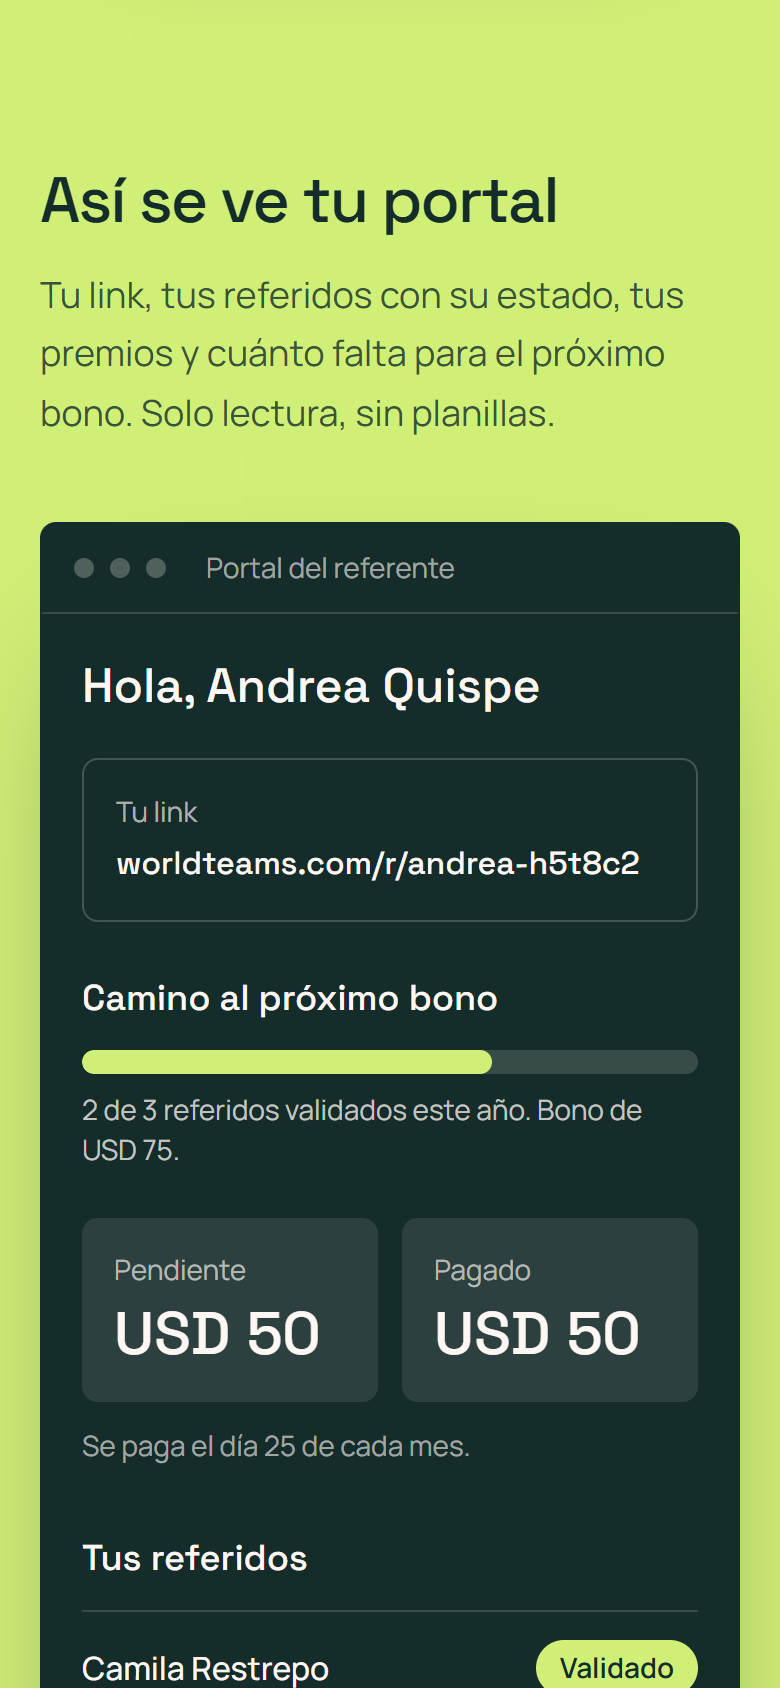
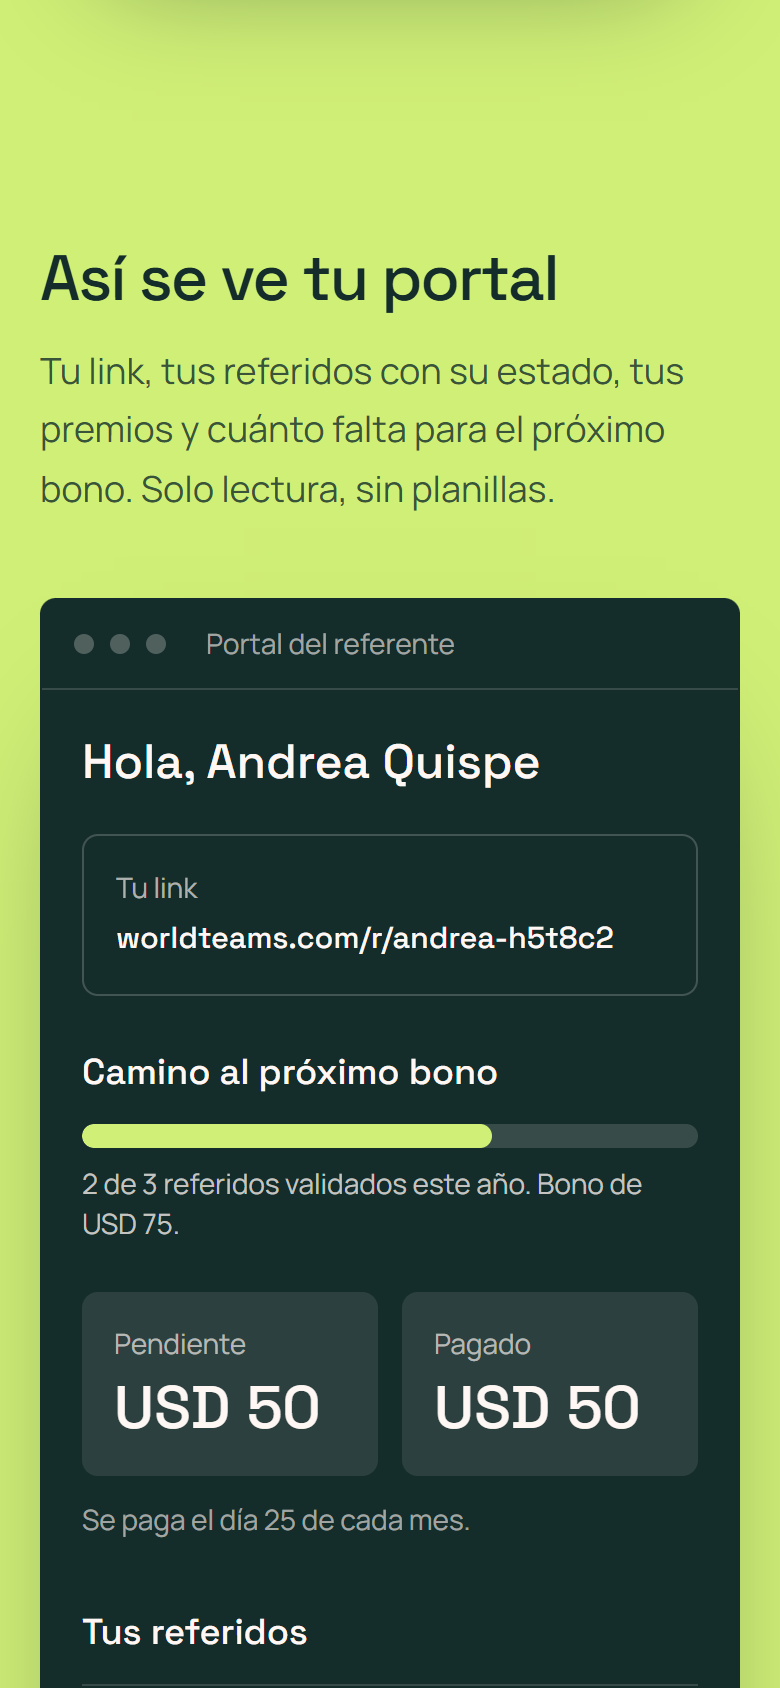
Marquesina fiel a la web; hero sin hueco en móvil (alto sigue al fragmento visible); link del celular cortado tras /r/; landing marcada como terminada

Changed region(s): [[0.0308, 0.0924, 0.9538, 0.8626], [0.0923, 0.8934, 0.5846, 1.0], [0.6769, 0.955, 0.8923, 1.0]]

diff --git a/app/components/inicio/HeroFragmentos.tsx b/app/components/inicio/HeroFragmentos.tsx
@@ -7,9 +7,11 @@ import { cargarGsap, prefiereMovimientoReducido } from "@/lib/gsap";
 const fragmentos = es.inicio.hero.fragmentos;
 
 /**
- * Titular con el último fragmento rotando. Todos los fragmentos ocupan la misma celda de una grilla,
- * así el alto es el del más largo y nada salta. Cada cambio usa una máscara de entrada por línea.
- * Sin JS o con movimiento reducido queda visible el primero; el texto completo va en el h1 accesible.
+ * Titular con el último fragmento rotando, con máscara de entrada por línea.
+ * Solo el primer fragmento ocupa lugar; los demás esperan fuera de flujo, así que el alto es siempre el
+ * del fragmento visible (sin hueco aunque otro sea más largo y se parta en dos líneas en móvil).
+ * Al rotar, el alto se anima hasta el del fragmento que entra. Sin JS o con movimiento reducido queda
+ * visible solo el primero; el texto completo va en el h1 accesible.
  */
 export function HeroFragmentos() {
   const raiz = useRef<HTMLSpanElement>(null);
@@ -24,15 +26,29 @@ export function HeroFragmentos() {
       if (cancelado) return;
       let llamada: ReturnType<typeof gsap.delayedCall> | undefined;
       const items = gsap.utils.toArray<HTMLElement>("[data-fragmento]", el);
+      // Alto del contenedor = alto del fragmento + el aire inferior que evita recortar descendentes.
+      const aire = el.offsetHeight - items[0].offsetHeight;
+      const altoDe = (i: number) => items[i].offsetHeight + aire;
+      let actual = 0;
+      let animando = false;
+
+      // Si cambia el ancho y un fragmento se parte distinto, el alto sigue al visible.
+      const observador = new ResizeObserver(() => {
+        if (!animando && el.style.height) el.style.height = `${altoDe(actual)}px`;
+      });
+      items.forEach((i) => observador.observe(i));
+
       const ctx = gsap.context(() => {
-        gsap.set(items.slice(1), { yPercent: 110 });
-        let actual = 0;
+        gsap.set(items.slice(1), { yPercent: 110, visibility: "visible" });
         const rotar = () => {
           const siguiente = (actual + 1) % items.length;
+          el.style.height = `${altoDe(actual)}px`;
+          animando = true;
           gsap
-            .timeline()
+            .timeline({ onComplete: () => (animando = false) })
             .to(items[actual], { yPercent: -110, duration: 0.7, ease: "power3.in" })
-            .fromTo(items[siguiente], { yPercent: 110 }, { yPercent: 0, duration: 0.8, ease: "power3.out" }, "-=0.1");
+            .fromTo(items[siguiente], { yPercent: 110 }, { yPercent: 0, duration: 0.8, ease: "power3.out" }, "-=0.1")
+            .to(el, { height: altoDe(siguiente), duration: 0.6, ease: "power3.inOut" }, "<");
           actual = siguiente;
         };
         const programar = (segundos: number) => {
@@ -45,7 +61,9 @@ export function HeroFragmentos() {
       }, el);
       limpiar = () => {
         llamada?.kill();
+        observador.disconnect();
         ctx.revert();
+        el.style.height = "";
       };
     });
     return () => {
@@ -55,9 +73,13 @@ export function HeroFragmentos() {
   }, []);
 
   return (
-    <span ref={raiz} aria-hidden className="grid overflow-hidden pb-[0.12em] text-acento">
-      {fragmentos.map((f) => (
-        <span key={f} data-fragmento className="[grid-area:1/1] will-change-transform">
+    <span ref={raiz} aria-hidden className="relative block overflow-hidden pb-[0.12em] text-acento">
+      {fragmentos.map((f, i) => (
+        <span
+          key={f}
+          data-fragmento
+          className={`block will-change-transform ${i > 0 ? "invisible absolute inset-x-0 top-0 motion-reduce:hidden" : ""}`}
+        >
           {f}
         </span>
       ))}

diff --git a/app/components/inicio/Celular.tsx b/app/components/inicio/Celular.tsx
@@ -5,6 +5,8 @@ import { t } from "@/lib/i18n";
 
 const c = es.inicio.como.celular;
 const hito = config.hitos[0];
+const corte = c.linkValor.indexOf("/r/") + 3;
+const [host, codigo] = [c.linkValor.slice(0, corte), c.linkValor.slice(corte)];
 
 /** Marco de celular, solo decorativo: el sentido de cada pantalla lo da el texto del paso. */
 export function Celular({ children }: { children: ReactNode }) {
@@ -26,8 +28,11 @@ export function PantallaLink() {
     <div data-pantalla="link" className={pantalla}>
       <p className="font-display text-lg font-medium">{c.linkTitulo}</p>
       <div className="mt-4 rounded-lg border-[1.5px] border-borde/50 bg-white p-3">
-        {/* El espacio de ancho cero tras "/r/" deja cortar la línea ahí y no en mitad de la palabra. */}
-        <p className="font-display text-[0.95rem] font-medium leading-snug">{c.linkValor.replace("/r/", "/r/")}</p>
+        {/* El link va en dos líneas fijas, cortado justo después de "/r/": nunca a mitad de palabra. */}
+        <p className="font-display text-[0.95rem] font-medium leading-snug">
+          <span className="block whitespace-nowrap">{host}</span>
+          <span className="block whitespace-nowrap">{codigo}</span>
+        </p>
       </div>
       <div className="relative mt-3 h-10">
         <span data-copiar className="absolute inset-0 flex items-center justify-center rounded-lg bg-verde text-sm font-bold text-crema">

diff --git a/app/components/inicio/PortalEjemplo.tsx b/app/components/inicio/PortalEjemplo.tsx
@@ -60,7 +60,7 @@ export function PortalEjemplo() {
             <p className="font-display text-2xl font-medium sm:text-3xl">{p.saludo}</p>
             <div className="mt-5 rounded-lg border border-crema/20 p-4">
               <p className="text-sm text-crema/65">{p.linkEtiqueta}</p>
-              <p className="mt-1 font-display text-base font-medium [overflow-wrap:anywhere] sm:text-lg">{p.linkValor}</p>
+              <p className="mt-1 whitespace-nowrap font-display text-[0.95rem] font-medium sm:text-lg">{p.linkValor}</p>
             </div>
 
             <div className="mt-6">

diff --git a/PLAN.md b/PLAN.md
@@ -8,7 +8,7 @@ Regla: no se pasa a la tarea siguiente hasta que la anterior funcione y esté pr
 - [ ] Crear cuenta en Resend (dominio de prueba) y en n8n (recomendado: n8n Cloud en prueba, para tener webhooks públicos sin túnel).
 
 ## Jueves 22/10 (construcción)
-1. [x] **Landing (modo demo, decisiones 27–29)** — _`/r/[codigo]` terminada y probada en demo (21/10): registro nuevo, `ya.registrado@example.com`, `falla@example.com`, código inexistente, teclado en los controles segmentados y 390 px sin franjas. `/` construida en demo (hero, 3 pasos, premios, calculadora, FAQ y cierre; montos desde `config`). Pasada de diseño (22/10, decisiones 30–32): hilo que conecta, scrollytelling con celular, fondo interpolado, marquesina, tarjetas de premios, maqueta del portal, Lighthouse local 94 móvil / 100 escritorio. Pendiente: conexión real con Supabase y n8n (`/api/referir` → webhook), que depende de las tareas 2 y 3._ Primero `/r/[codigo]` con formulario funcionando en demo, después `/` (hero, 3 pasos, premios, calculadora, FAQ, cierre). `/r/[codigo]`: valida el código, muestra quién recomienda, formulario de la decisión 21, reCAPTCHA, subida de CV, aviso de visibilidad, envío al webhook de n8n, pantalla de confirmación (decisión 23) y mensaje neutro para registrados previos. Textos en `i18n/es.json`. Diseño acorde a WorldTeams (verde oscuro, verde lima), sin copiar su página. Luego se conecta a Supabase (lectura de `configuracion` y referentes) y a n8n (`/api/referir` → webhook).
+1. [x] **Landing (modo demo, decisiones 27–29)** — _TERMINADA (22/10): `/r/[codigo]` y `/` construidas y probadas en demo, con la pasada de diseño de las decisiones 30–32, código de referido no adivinable con límite de intentos (decisión 2), Lighthouse local 94+ móvil / 100 escritorio y sin desborde a 390 px. Lo que falta de esta tarea es conectar la lectura de `configuracion` y `referentes` a Supabase y `/api/referir` al webhook de n8n; eso se hace dentro de las tareas 2 y 3._ Primero `/r/[codigo]` con formulario funcionando en demo, después `/` (hero, 3 pasos, premios, calculadora, FAQ, cierre). `/r/[codigo]`: valida el código, muestra quién recomienda, formulario de la decisión 21, reCAPTCHA, subida de CV, aviso de visibilidad, envío al webhook de n8n, pantalla de confirmación (decisión 23) y mensaje neutro para registrados previos. Textos en `i18n/es.json`. Diseño acorde a WorldTeams (verde oscuro, verde lima), sin copiar su página. Luego se conecta a Supabase (lectura de `configuracion` y referentes) y a n8n (`/api/referir` → webhook).
 2. [ ] **Base de datos** — `supabase/schema.sql` según `DECISIONS.md`: tablas, restricciones, índice único parcial, columna generada `es_prioritario`, vistas, RLS, bucket privado de CVs. `seed.sql`: configuración inicial, 3–4 referentes de ejemplo, 1 persona de reclutamiento. `tests.sql`: probar que un email duplicado falla, que un segundo movimiento del mismo concepto falla y que el referente solo ve lo suyo.
 3. [ ] **Flujo principal n8n** — webhook de registro → referente válido y colocado → normalizar email/LinkedIn → ¿ya en pool? / ¿duplicado? / ¿autorreferido? → `descartado` + mail · si no: crear candidato y referido `registrado` → reglas de validación + alerta de volumen → `validado` (crear movimientos con montos de `configuracion` + bono de hito si corresponde + mail) o `en_revision` (motivos). Historial en cada cambio. Exportar JSON.
 4. [ ] **Portal del referente** — magic link (solo emails de `referentes`), link copiable, lista de referidos (nombre + estado), premios pendientes/pagados, barra de avance desde `v_progreso_referente`.

diff --git a/DECISIONS.md b/DECISIONS.md
@@ -90,7 +90,7 @@ Punto de equilibrio: el programa se paga solo si al menos X% de los referidos te
 
 **31. Movimiento reducido** — con `prefers-reduced-motion` no se carga Lenis ni GSAP: no hay fondo interpolado, ni marquesina, ni números que ruedan, ni sección fija. El contenido es el mismo y cada sección lleva su color fijo (verde, crema, lima, verde).
 
-**32. Datos de ejemplo en la landing** — los referentes y candidatos de las maquetas (celular y portal) son ficticios y se rotulan como "datos de ejemplo". Los montos y totales salen de `config` (`lib/premios.ts`), nunca escritos a mano. Sin imágenes, monedas ni logos de clientes de WorldTeams. [supuesto] La franja "+750 profesionales de LATAM · +370 firmas de EE.UU." usa cifras dadas por Mateo; confirmar con WorldTeams antes de publicar.
+**32. Datos de ejemplo en la landing** — los referentes y candidatos de las maquetas (celular y portal) son ficticios y se rotulan como "datos de ejemplo". Los montos y totales salen de `config` (`lib/premios.ts`), nunca escritos a mano. Sin imágenes, monedas ni logos de clientes de WorldTeams. La franja lima dice "+750 profesionales · +370 empresas de EE.UU. y Canadá", con el texto de la web de WorldTeams; las cifras salen de su sitio y conviene reconfirmarlas antes de publicar.
 
 ---
 
